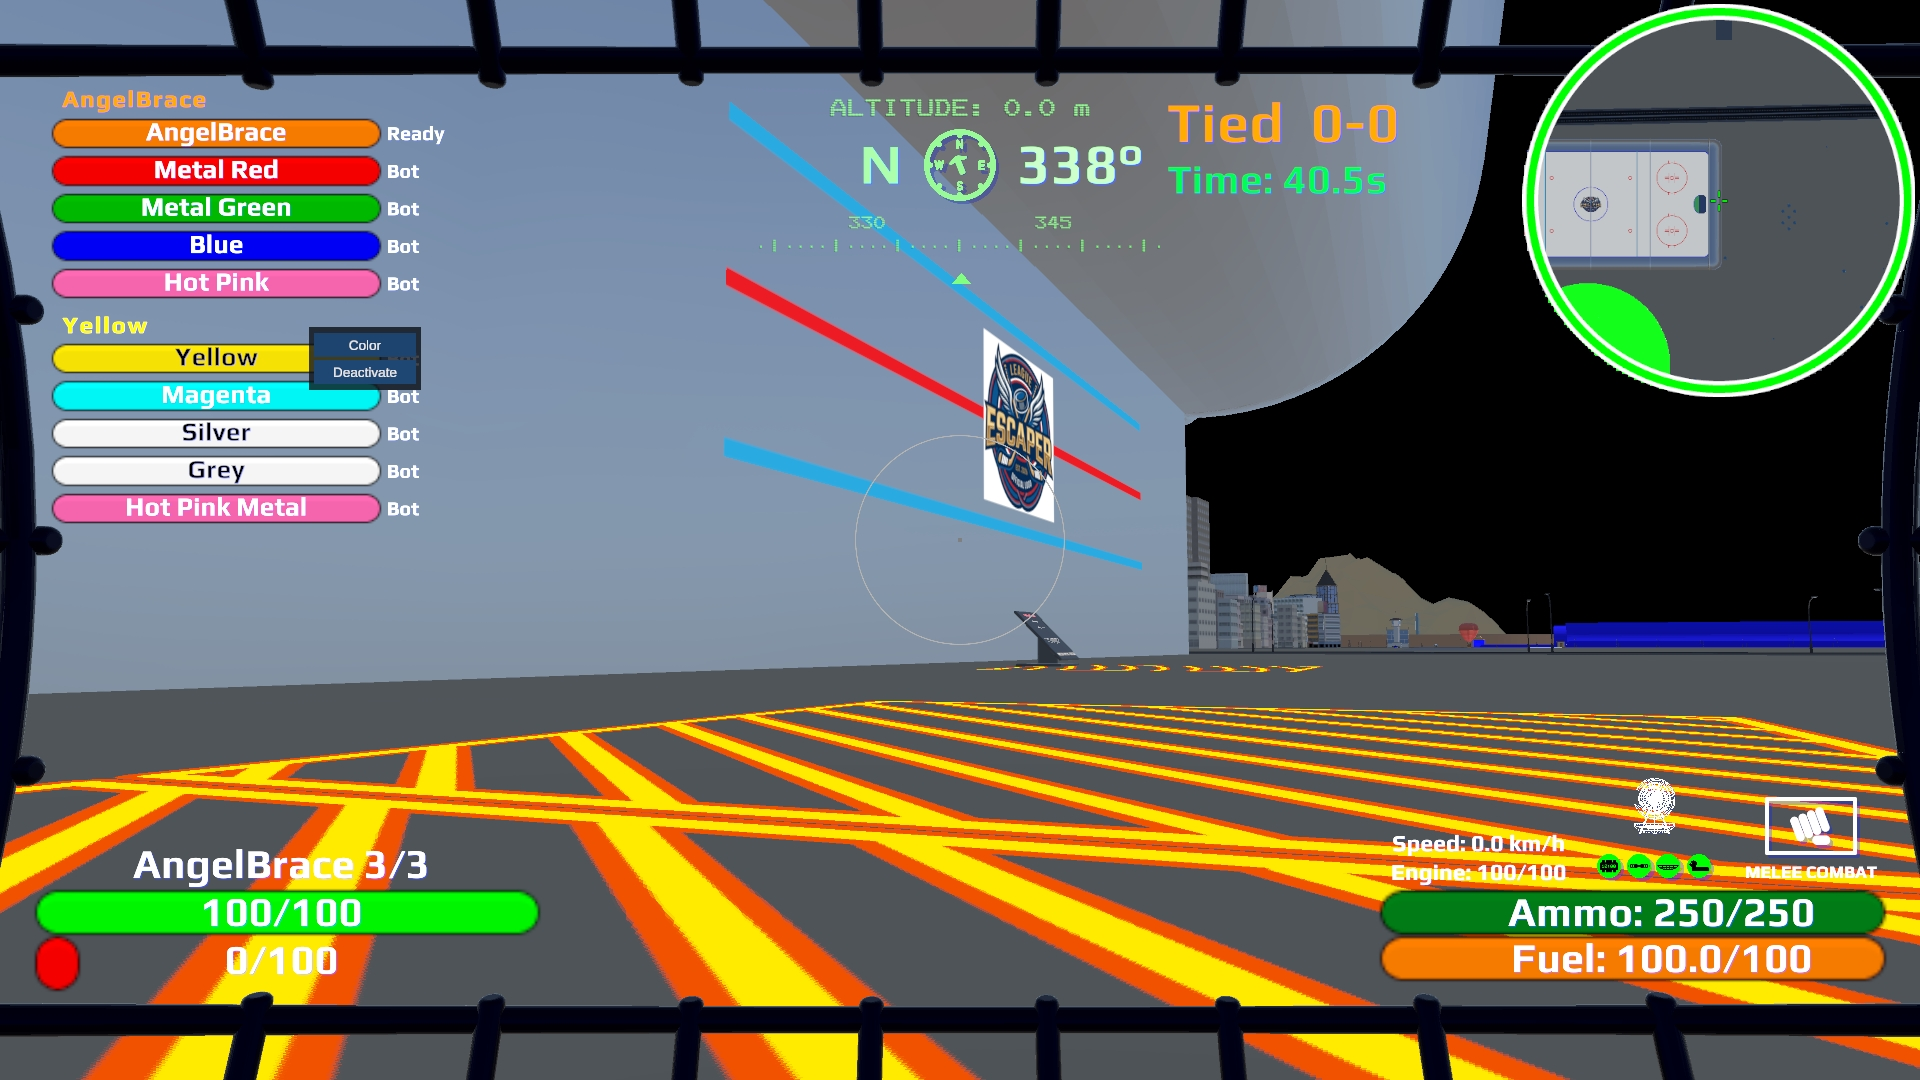
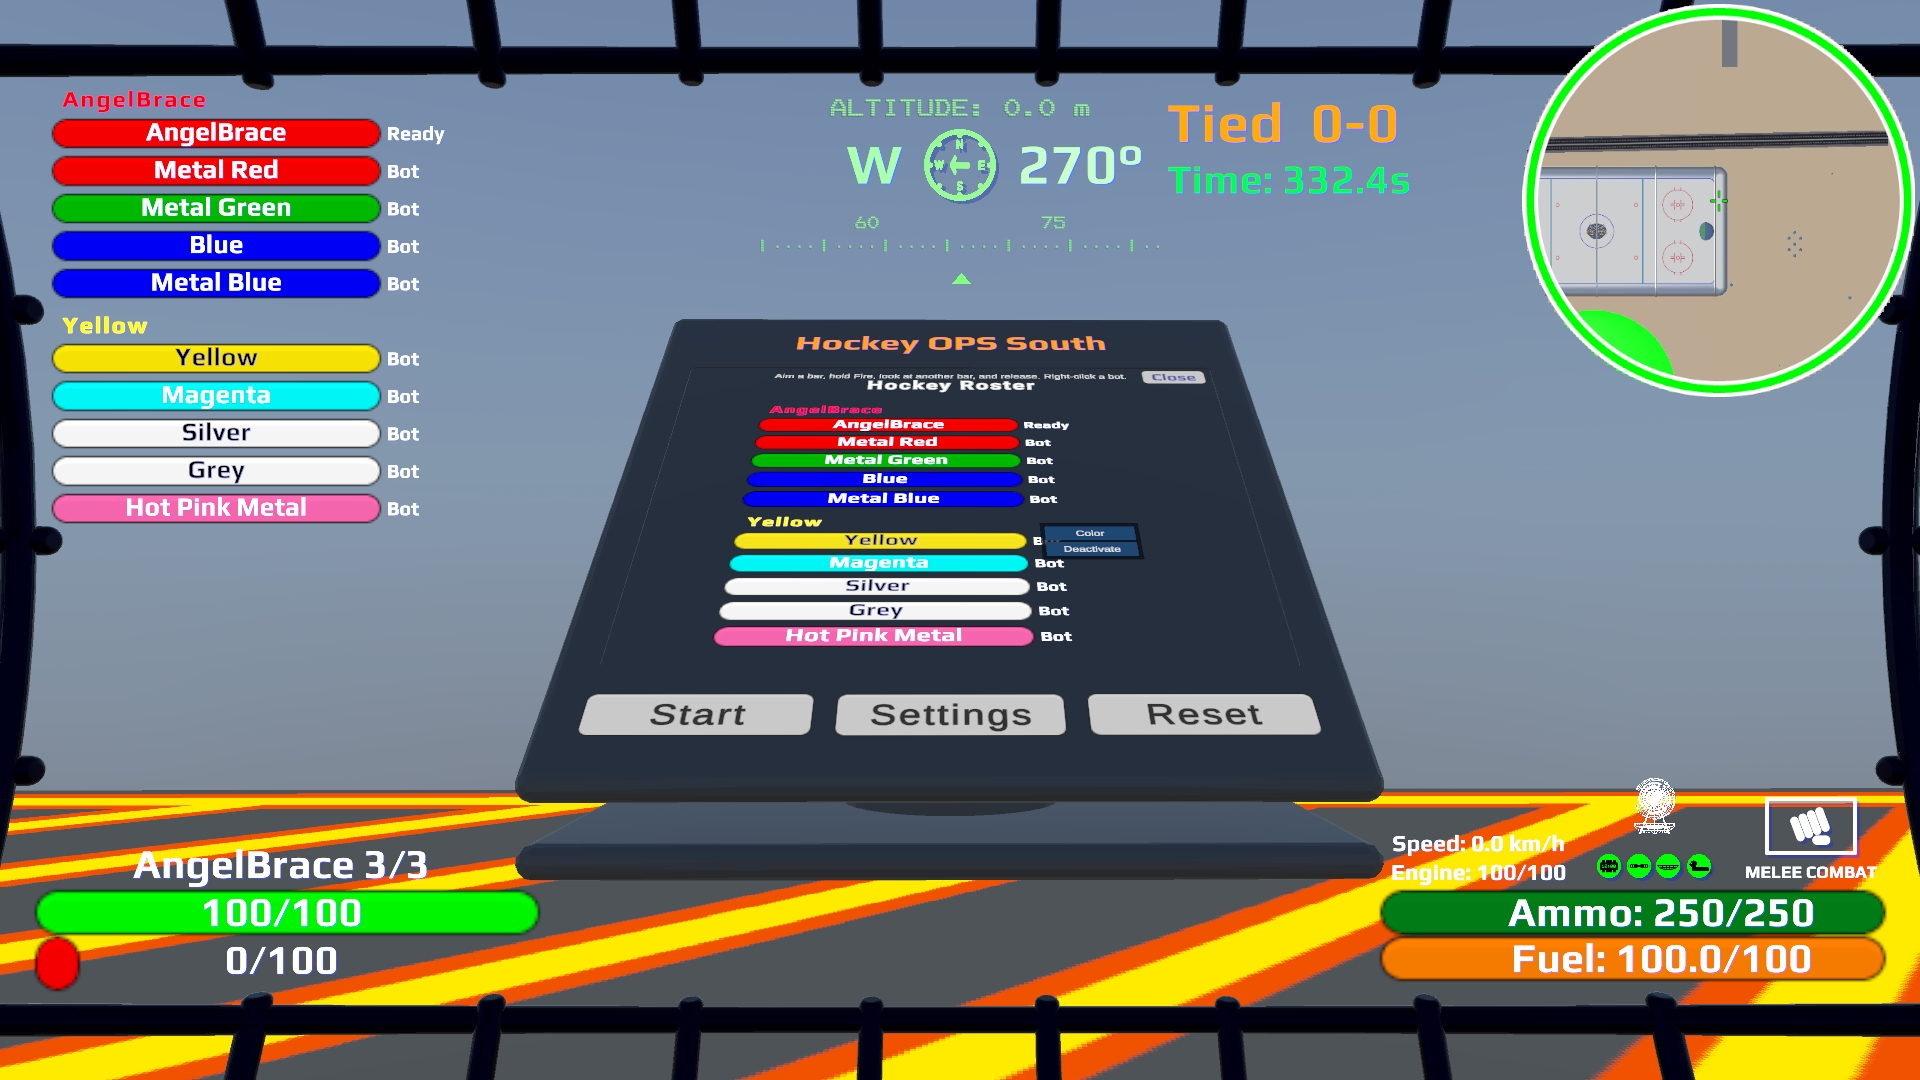
Show the hockey stick at rest and on a connecting slapshot.

diff --git a/index.html b/index.html
@@ -1567,7 +1567,8 @@ AngelBraceToo Sunk: ST-9, ST-11, 8</pre>
         <figcaption>The rink</figcaption>
       </figure>
       <p>
-        <kbd>E</kbd> inside any collider on the arena opens <strong>Hockey Arena OPS</strong>, including while a game is going.
+        <kbd>E</kbd> inside any collider on the arena opens that terminal, including while a game is going.
+        The south board reads <strong>Hockey OPS South</strong>. The north board reads <strong>Hockey OPS North</strong>.
         The cursor comes out. <kbd>E</kbd> again closes the panel. During a live game the bike keeps moving.
         <kbd>E</kbd> does not get you off the bike while you are in those colliders.
         The team stands still count, even though they sit on the ground outside the raised arena.
@@ -1604,13 +1605,26 @@ AngelBraceToo Sunk: ST-9, ST-11, 8</pre>
       <h3>On the bike</h3>
       <p>Weapons and zoom stay off during a live match on the rink.</p>
       <ul>
-        <li>Drive into the puck and it leaves along the nose. Cruise is a nudge. Full speed is a slap. <kbd>LMB</kbd> kicks left. <kbd>RMB</kbd> kicks right. Middle click, or left and right together, is a full slap straight ahead. A hit sound plays at the puck and gets louder with the shove. A flash marks the strike.</li>
-        <li>Cruise speed is a nudge. Full speed is a slap, capped by the arena’s max puck speed. Between those, the kick grows with the bike.</li>
+        <li>The colored sphere in front of the bike is the stick. With no button it rests in front. <kbd>LMB</kbd> moves it to your left. <kbd>RMB</kbd> moves it to your right. Letting go puts it back in front. A slap lunges it along the shot. Each move takes about <strong>0.15</strong> seconds.</li>
+        <li>Skate into the puck for a nudge along the nose. The nudge stays small even when you are boosting.</li>
+        <li><kbd>LMB</kbd> pokes the puck straight along the nose.</li>
+        <li>Hold <kbd>RMB</kbd> to carry the puck on the nose. Let go and it leaves at the speed you are riding. A poke or a slap takes it off the carry.</li>
+        <li><kbd>Space</kbd> or middle click is a full slap straight ahead.</li>
+        <li><kbd>Space</kbd> + <kbd>LMB</kbd> slaps 45 degrees left. <kbd>Space</kbd> + <kbd>RMB</kbd> slaps 45 degrees right.</li>
+        <li>A slap that touches the puck plays the hit and flashes the stick white. A miss still lunges, with no flash and no hit.</li>
         <li>You can ride up the curved sides of the rink. The other rider follows that path.</li>
-        <li>Bots do the same, and they ride the curve too. Lined up on the enemy net, the kick is straight. Off that line, they pick a side.</li>
+        <li>Bots ride the curve too. Lined up on the enemy net, the kick is straight. Off that line, they pick a side. Their stick uses the same poses.</li>
         <li>You and any online rider can leave or enter through the nets. Bots cannot drop below the ice.</li>
         <li>A puck that leaves the play zone respawns at center. A shot that beats the goal mouth, or the stand just behind that mouth, scores for the other team.</li>
       </ul>
+      <figure>
+        <img src="images/53-hockey-stick.jpg" alt="Chase view of the green stick sphere resting in front of the black puck. The score reads Tied 0-0." loading="lazy" onerror="this.classList.add('missing')">
+        <figcaption>The stick rests in front of the puck. Left click moves it left, right click moves it right, and letting go returns it here.</figcaption>
+      </figure>
+      <figure>
+        <img src="images/54-hockey-stickslapshot.jpg" alt="A slapshot connects. The stick flashes white and a white burst marks the puck." loading="lazy" onerror="this.classList.add('missing')">
+        <figcaption>A slapshot that meets the puck. The stick flashes white and the hit bursts on the puck. A miss still lunges, with no flash.</figcaption>
+      </figure>
       <h3>Roster</h3>
       <p>Once <kbd>E</kbd> has freed the cursor, the host can drag a name between Team A and Team B. Drop it on a name to swap. Drop it on <strong>Open</strong> to move. Right-click a bar:</p>
       <ul>
@@ -1626,8 +1640,8 @@ AngelBraceToo Sunk: ST-9, ST-11, 8</pre>
         A multiplayer room can use that saved lineup. Changes you make in a room are not written back over it.
       </p>
       <figure>
-        <img src="images/52-hockey-roster.jpg" alt="Full hockey roster, five a side. Yellow’s bar is open on Color and Deactivate, and the HUD reads Tied 0-0." loading="lazy" onerror="this.classList.add('missing')">
-        <figcaption>Five a side. The colored headers are the captains. Right-click a bot for Color or Deactivate. The HUD reads Tied 0-0.</figcaption>
+        <img src="images/52-hockey-roster.jpg" alt="Hockey OPS South with five riders a side. The HUD roster matches the panel. Yellow’s menu is open on Color and Deactivate. The score reads Tied 0-0." loading="lazy" onerror="this.classList.add('missing')">
+        <figcaption>Hockey OPS South. The HUD roster on the left matches the panel. The colored headers are the captains. Right-click a bot for Color or Deactivate.</figcaption>
       </figure>
     </section>
 
@@ -1705,7 +1719,7 @@ AngelBraceToo Sunk: ST-9, ST-11, 8</pre>
         <li><strong>Tetris</strong> — Engage → host on South <strong>5s</strong> → Playing. Offline includes Marathon, Sprint, and Ultra. In a room the host wheel is 2-player only. Clamp on a PlayZone block (blue South / red North): stay still <strong>3s</strong> (or immediately if already there). While clamped the cage cannot walk — WASD moves the piece. Jump off to break clamp. Stick/D-Pad or <kbd>A</kbd>/<kbd>D</kbd> move, <kbd>Q</kbd>/<kbd>LB</kbd> · <kbd>E</kbd>/<kbd>RB</kbd> rotate, <kbd>W</kbd>/stick↑ flip, <kbd>C</kbd>/<kbd>Y</kbd> Hold, soft or <kbd>RT</kbd> hard; leftover board stays until Start/Reset. <strong>Spawn:</strong> host South, guest North.</li>
         <li><strong>Ray Racer</strong> — the deck is weapons-free. The host and the first three others ride; anyone else spectates (<strong>Previous</strong> / <strong>Escaper</strong> / <strong>Next</strong>). A green <strong>READY</strong> button (or <kbd>Enter</kbd> / gamepad <kbd>A</kbd>) starts the countdown; a room waits until every rider has pressed Ready. <kbd>E</kbd> hides Ready and opens <strong>RayRacerOPS</strong>. Then <strong>GRID</strong>, <strong>3</strong>, <strong>2</strong>, <strong>1</strong>, <strong>GO</strong>. Hold gas from <strong>2</strong> through <strong>GO</strong> for a rocket start; gas on the red <strong>3</strong> is a burnout. Boost lights the rear wheel. Opens in third person; <kbd>V</kbd> cycles Normal, Full Screen, Third Person. Leaving for another mode restores that camera. On the deck, <kbd>1</kbd>–<kbd>5</kbd> are cameras (chase, left, right, front, top) and weapons do not switch. Host mode wheel: <strong>Free Ray</strong> or <strong>Classic Tron</strong> (90-degree turns on even 2-unit lines). Host <strong>Theme</strong> recolors the floor, grid, border, and pillars. Host sky, grid-line, and floor-fade sliders. Your music and bike color. Solo, with the cursor free, right-click a Game Roster bar for that bike’s color. The computer bike is grey with a white ray. A wall, pillar, or beam crashes you. The other rider’s beam crashes you too, including the piece still being drawn. Your own ribbon does not, until it is a finished wall. <strong>Continue</strong> uses a remaining life with no new countdown. <strong>Start</strong> / <strong>Reset</strong> / <strong>Restart</strong> begin a fresh round at Ready. <code>/tron</code> is 1 life, <code>/raylives</code> is 3. Off the island, <kbd>E</kbd> mounts or dismounts a Ray Racer bike you have found, and does nothing if you have not found one.</li>
         <li><strong>Room chat</strong> — in a Photon room, <kbd>G</kbd> opens the panel. A plain line goes to everyone. <code>@Nick</code> is a private whisper. During hockey, <code>@ATeam</code>, <code>@BTeam</code>, and <code>@team</code> are side chat. <code>/me</code>, <code>/who</code>, <code>:puck:</code>, <code>:wave:</code>, <code>:star:</code>. Host <code>/ban @Nick</code> and <code>/unban @Nick</code>. <code>/ignore</code> is only your chat. The same commands work in the <kbd>F9</kbd> console. An incoming line flashes that rider’s Game Roster bar.</li>
-        <li><strong>Hockey Arena</strong> — ten spots, five a side. Host at <strong>HockeyOPS1</strong>, first remote at <strong>HockeyOPS2</strong>, then <strong>HockeyPlayer1</strong>–<strong>HockeyPlayer8</strong>. Anyone else spectates with their own camera. The host is Team A captain. One other rider starts as Team B captain on the sixth roster bar. If several other riders are in, one of them is chosen for that bar, and whoever the host leaves on the sixth bar is the captain. A remote can change their own bike color, music, and music volume. Start, Reset, Fill, and the roster stay with the host. Only the host can pause. The fifth rider on a side stands behind the middle of that side’s four. With the cursor free, the host can drag a name to the other side: drop on a name to swap, drop on <strong>Open</strong> to move. The headers show those captains’ nicknames in their ray colors. <kbd>E</kbd> inside any arena collider opens <strong>Hockey Arena OPS</strong> (Start, Settings, Reset, Fill open seats) and frees the cursor, including during a game. Aimed buttons turn orange. Settings holds music and the bike list; aim the list and roll the wheel to scroll. <kbd>ESC</kbd> closes the bike list, then Settings. The puck drops onto center ice at face-off. <kbd>LMB</kbd> kicks left. <kbd>RMB</kbd> kicks right. Middle click, or both together, is a full slap straight ahead. Cruise nudges; full speed slaps. You can ride up the curved sides. A hit sound at the puck gets louder with the shove, and a flash marks the strike. The HUD reads <strong>Tied&nbsp;&nbsp;0-0</strong>, <strong>A leads&nbsp;&nbsp;1-0</strong>, or <strong>A wins&nbsp;&nbsp;3-0</strong>. A goal toast reads <strong>Red scores for A Team</strong>. The sky board shows the same line. The winning goal stops kicks, sends the bots off, and leaves the riders free to skate. Ten fireworks launch from the sky board over about seven seconds, and a win sound plays. Host <strong>Start</strong> clears the score for another face-off. Wheels and the net you defend use the captain’s ray color; the body color stays personal. A bot’s color name floats above its bike. Player bikes are not tagged. Right-click an <strong>Open</strong> bar to <strong>Activate</strong> one bot (next color), or a bot for <strong>Color</strong> / <strong>Deactivate</strong>. <strong>Fill</strong> randomizes unused bike colors. Even game: host plus nine bots. Solo bots are remembered next launch. First to 3. Humans can ride out through the nets; bots stay on the ice.</li>
+        <li><strong>Hockey Arena</strong> — ten spots, five a side. Host at <strong>HockeyOPS1</strong>, first remote at <strong>HockeyOPS2</strong>, then <strong>HockeyPlayer1</strong>–<strong>HockeyPlayer8</strong>. Anyone else spectates with their own camera. The host is Team A captain. One other rider starts as Team B captain on the sixth roster bar. If several other riders are in, one of them is chosen for that bar, and whoever the host leaves on the sixth bar is the captain. A remote can change their own bike color, music, and music volume. Start, Reset, Fill, and the roster stay with the host. Only the host can pause. The fifth rider on a side stands behind the middle of that side’s four. With the cursor free, the host can drag a name to the other side: drop on a name to swap, drop on <strong>Open</strong> to move. The headers show those captains’ nicknames in their ray colors. <kbd>E</kbd> inside any arena collider opens <strong>Hockey OPS South</strong> or <strong>Hockey OPS North</strong> (Start, Settings, Reset, Fill open seats) and frees the cursor, including during a game. Aimed buttons turn orange. Settings holds music and the bike list; aim the list and roll the wheel to scroll. <kbd>ESC</kbd> closes the bike list, then Settings. The puck drops onto center ice at face-off. The colored sphere in front of the bike is the stick. Skate in for a small nudge. <kbd>LMB</kbd> pokes. Hold <kbd>RMB</kbd> to carry, and let go to guide it free. <kbd>Space</kbd> or middle click slaps straight ahead. <kbd>Space</kbd> plus <kbd>LMB</kbd> or <kbd>RMB</kbd> slaps 45 degrees that way. A slap that touches the puck flashes the stick white and plays the hit. You can ride up the curved sides. The HUD reads <strong>Tied&nbsp;&nbsp;0-0</strong>, <strong>A leads&nbsp;&nbsp;1-0</strong>, or <strong>A wins&nbsp;&nbsp;3-0</strong>. A goal toast reads <strong>Red scores for A Team</strong>. The sky board shows the same line. The winning goal stops kicks, sends the bots off, and leaves the riders free to skate. Ten fireworks launch from the sky board over about seven seconds, and a win sound plays. Host <strong>Start</strong> clears the score for another face-off. Wheels and the net you defend use the captain’s ray color; the body color stays personal. A bot’s color name floats above its bike. Player bikes are not tagged. Right-click an <strong>Open</strong> bar to <strong>Activate</strong> one bot (next color), or a bot for <strong>Color</strong> / <strong>Deactivate</strong>. <strong>Fill</strong> randomizes unused bike colors. Even game: host plus nine bots. Solo bots are remembered next launch. First to 3. Humans can ride out through the nets; bots stay on the ice.</li>
         <li><strong>ESC</strong> — pause / Game Selection (HUD off); during death or victory, second <kbd>ESC</kbd> returns to the orbit with <strong>Continue</strong> / <strong>Restart</strong>. On the Ray Racer deck, <kbd>ESC</kbd> closes <strong>RayRacerOPS</strong> before it opens Game Selection. Choosing another mode stops the game you were in. Leaving Ray Racer restores the camera you chose with <kbd>V</kbd>.</li>
         <li><strong>Lives</strong> — 3 lives; <strong>Continue</strong> respawns; <strong>Restart</strong> after the last life or a victory. <strong>GAME OVER</strong> means the run is finished.</li>
         <li><strong>Ocean landing</strong> — falling into Ocean-tagged water has no fall impact; land and buildings still deal fall damage.</li>
